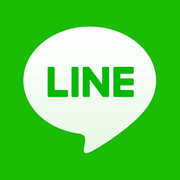
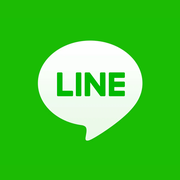
全版: アイコンの吹き出しを縮小し緑の余白を拡大、CACHE_NAME を更新

Changed region(s): [[0.1111, 0.1389, 0.8889, 0.8611]]

diff --git a/suyama/service-worker.js b/suyama/service-worker.js
@@ -1,5 +1,5 @@
 // 陶山版 専用キャッシュ。ルート版 / noguchi 版 / shinmura 版とは独立させること。
-const CACHE_NAME = 'lime-suyama-cache-v2';
+const CACHE_NAME = 'lime-suyama-cache-v3';
 const PRECACHE_URLS = [
   './index.html',
   './manifest.json',

diff --git a/shinmura/service-worker.js b/shinmura/service-worker.js
@@ -1,5 +1,5 @@
 // 新村版 専用キャッシュ。ルート版 / noguchi 版とは独立させること。
-const CACHE_NAME = 'lime-shinmura-cache-v26';
+const CACHE_NAME = 'lime-shinmura-cache-v27';
 const PRECACHE_URLS = [
   './index.html',
   './manifest.json',

diff --git a/oda/service-worker.js b/oda/service-worker.js
@@ -1,5 +1,5 @@
 // 尾田版 専用キャッシュ。ルート版 / noguchi 版とは独立させること。
-const CACHE_NAME = 'lime-oda-cache-v12';
+const CACHE_NAME = 'lime-oda-cache-v13';
 const PRECACHE_URLS = [
   './index.html',
   './manifest.json',

diff --git a/service-worker.js b/service-worker.js
@@ -1,4 +1,4 @@
-const CACHE_NAME = 'lime-cache-v23';
+const CACHE_NAME = 'lime-cache-v24';
 const PRECACHE_URLS = [
   './index.html',
   './manifest.json',
